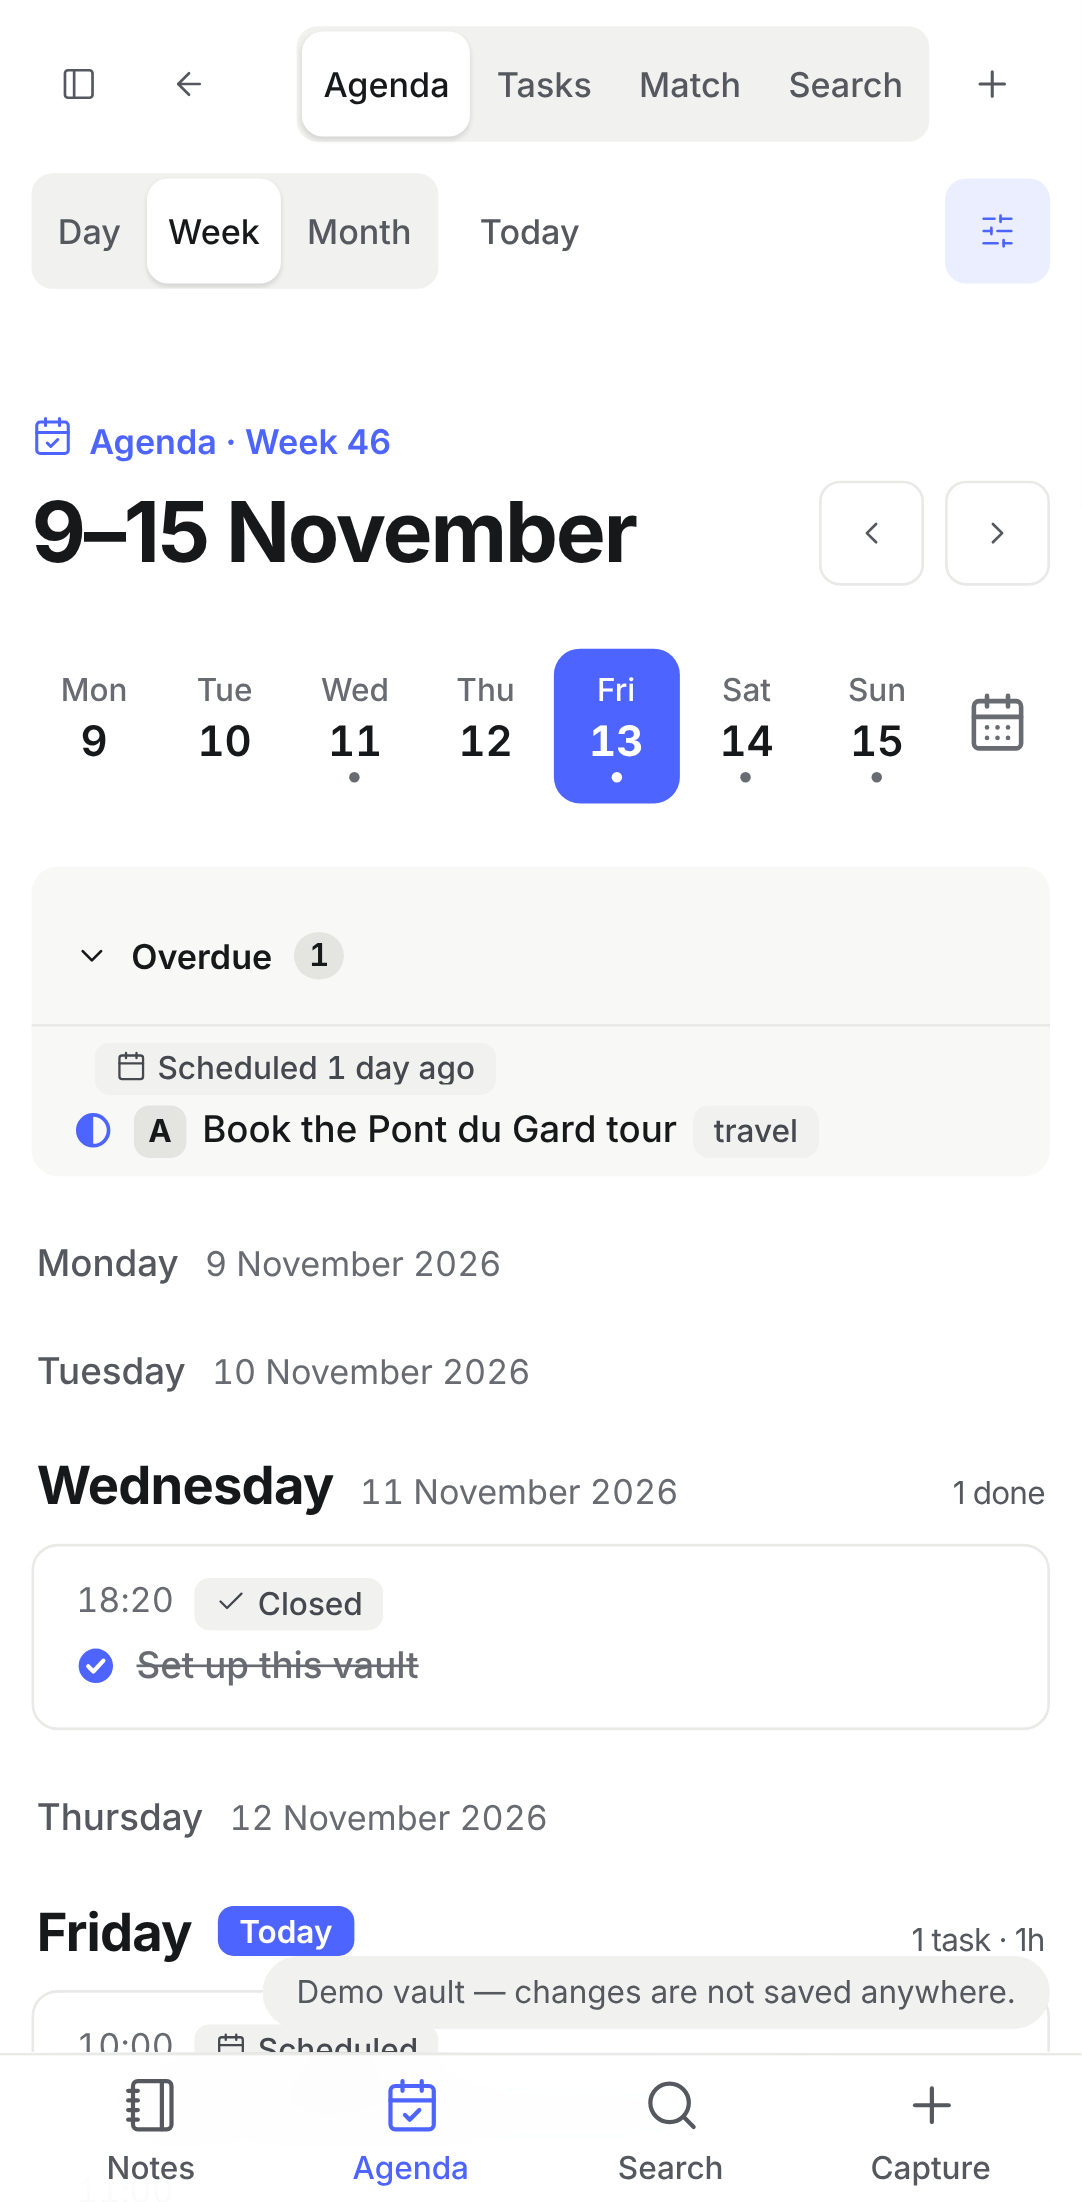
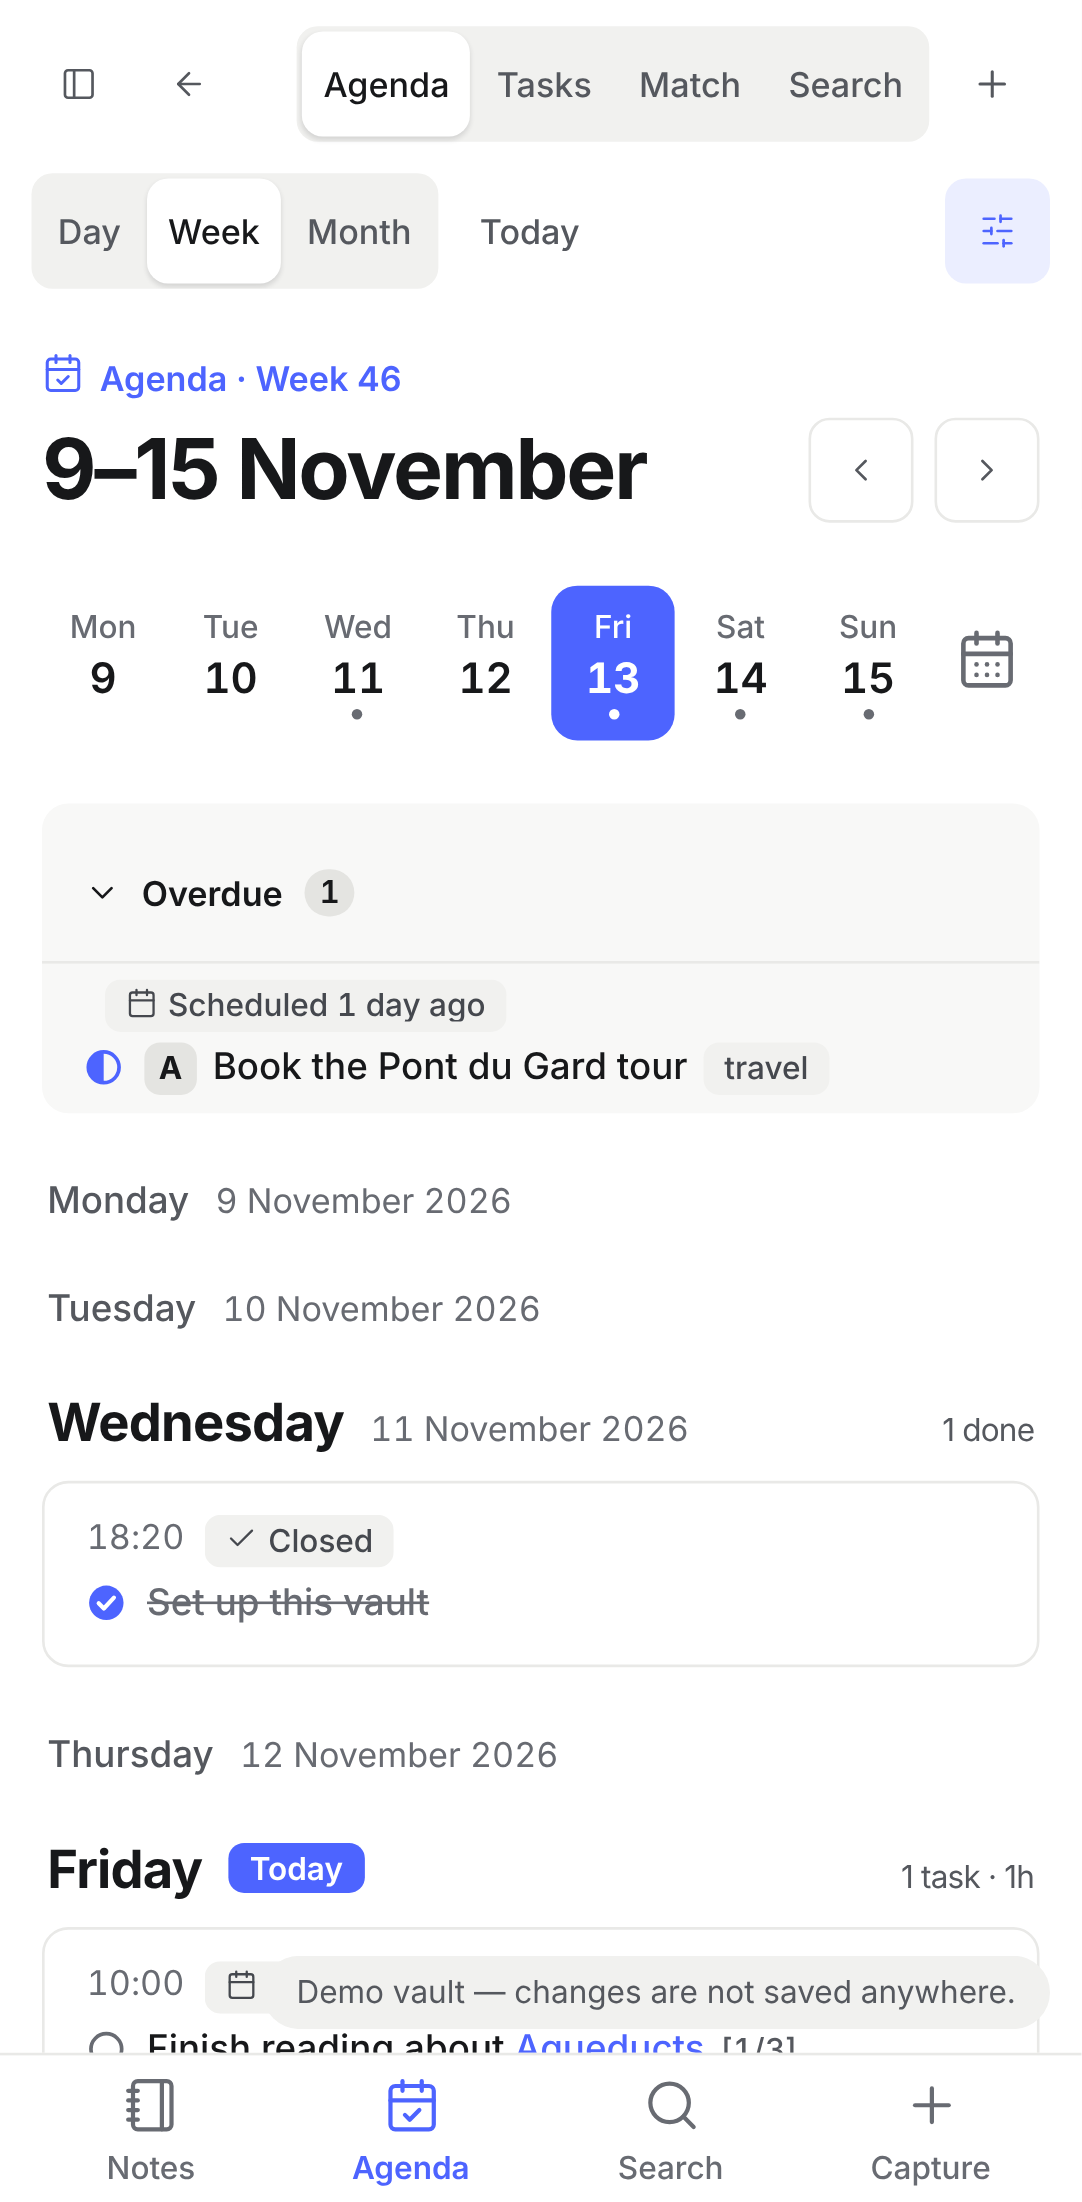
Restyle stage 8: the phone
The phone's list gets 20px sides, a 32px title, a 44px field with 16px
text, tiles with no count, and cards with 16px titles over 14px text;
its bar's buttons are 44px with 20px icons. The tab bar is solid white,
its tabs faint, the current one in the accent at 600. The agenda's page
has 16px sides. The phone's 32px list title joins the page's titles in
the six-sizes test.

Claude-Session: https://claude.ai/code/session_01FMk1W3xjGAnUwDM3D7HQLZ

diff --git a/web/src/css/app.css b/web/src/css/app.css
@@ -298,7 +298,17 @@ button.sn-row-enter:hover, .sn-row:focus-visible button.sn-row-enter { backgroun
 .sn-row-count { margin-top: calc(var(--sp-8) * -1); color: var(--muted); font-size: var(--fs-sm); font-variant-numeric: tabular-nums; }
 .sn-row-thumb { flex: none; width: 60px; height: 60px; margin-top: 19px; object-fit: cover; border-radius: var(--r-s); background: var(--panel); box-shadow: 0 0 0 1px var(--line); }
 @media (max-width: 820px) {
-  .sn-board.is-notes .sn-page { padding: var(--sp-10) var(--sp-6) var(--sp-48); }
+  /* the phone's list (restyle RS-72 to RS-76): roomy sides, a 32px title, a 44px field, tiles with no count, larger rows */
+  .sn-board.is-notes .sn-page { padding: var(--sp-8) var(--sp-20) var(--sp-48); }
+  .sn-board.is-notes .sn-topbar .clickable-icon:where(:not(.sn-seg > *)) { width: 44px; height: 44px; color: var(--muted); }
+  .sn-board.is-notes .sn-topbar .clickable-icon:where(:not(.sn-seg > *)) svg { width: 20px; height: 20px; }
+  .sn-list-head { padding-bottom: var(--sp-16); }
+  .sn-list-head .sn-list-title { font-size: var(--fs-title); letter-spacing: var(--ls-title); line-height: var(--lh-title); }
+  .sn-board.is-notes .sn-composer { margin-bottom: var(--sp-16); }
+  .sn-board.is-notes .sn-composer textarea { height: 44px; min-height: 44px; padding: var(--sp-10) var(--sp-14); font-size: var(--fs-text); line-height: 24px; }
+  .sn-row.is-folder .sn-row-count { display: none; }
+  .sn-board .sn-card.sn-row:not(.is-folder) .sn-row-title { font-size: var(--fs-text); }
+  .sn-row-snippet { font-size: var(--fs-md); }
   .sn-row-thumb { width: 52px; height: 52px; }
 }
 
@@ -317,16 +327,16 @@ button.sn-row-enter:hover, .sn-row:focus-visible button.sn-row-enter { backgroun
   .sn-tabbar {
     position: fixed; left: 0; right: 0; bottom: 0; z-index: var(--z-tabbar); display: grid; grid-template-columns: repeat(4, minmax(0, 1fr));
     padding: var(--sp-2) var(--sp-8) var(--safe-bottom); border-top: 1px solid var(--line);
-    background: color-mix(in srgb, var(--win) 94%, transparent); -webkit-backdrop-filter: blur(12px); backdrop-filter: blur(12px);
+    background: var(--win);
     transition: transform var(--dur-2) var(--ease);
   }
   .sn-tabbar.is-hidden { transform: translateY(100%); }
   button.sn-tab, button.sn-tab:not(.clickable-icon) {
     display: flex; flex-direction: column; align-items: center; justify-content: center; gap: var(--sp-2); height: 54px; padding: 0;
-    border: 0; background: none; box-shadow: none; color: var(--muted); font-family: var(--font-ui); font-size: var(--fs-sm); font-weight: var(--fw-medium);
+    border: 0; background: none; box-shadow: none; color: var(--faint); font-family: var(--font-ui); font-size: var(--fs-sm); font-weight: var(--fw-medium);
   }
   button.sn-tab svg { width: 22px; height: 22px; }
-  #app:not(:has(.sn-board.is-tasks, .sn-board.is-files)) .sn-tab[data-tab="board"], #app:has(.sn-board.is-tasks) .sn-tab[data-tab="agenda"] { color: var(--accent); }
+  #app:not(:has(.sn-board.is-tasks, .sn-board.is-files)) .sn-tab[data-tab="board"], #app:has(.sn-board.is-tasks) .sn-tab[data-tab="agenda"] { color: var(--accent); font-weight: var(--fw-semibold); }
   /* room to scroll the last card, task or file out from under the bar */
   .sn-page, .ag-body, .fv-list { padding-bottom: calc(80px + var(--safe-bottom)); }
   .sn-toast.is-quiet { bottom: calc(66px + var(--safe-bottom)); }

diff --git a/web/src/css/agenda.css b/web/src/css/agenda.css
@@ -120,7 +120,7 @@ button.ag-over-head, button.ag-over-head:not(.clickable-icon) { gap: var(--sp-8)
 .ag-keys { margin-top: var(--sp-6); }
 .ag-flag { color: var(--muted); }
 @media (max-width: 820px) {
-  .ag-body { padding-inline: var(--sp-12); }
+  .ag-body { padding: var(--sp-16) var(--sp-16) var(--sp-48); } /* restyle RS-78 */
   .agbar { padding-inline: var(--sp-12); }
   .ag-row, .ag-body.one-cat .ag-row { grid-template-columns: minmax(0, 1fr); grid-template-areas: none; row-gap: 1px; padding-block: var(--sp-6); }
   .ag-row .ag-main { grid-area: auto; }

diff --git a/docs/restyle-specification.md b/docs/restyle-specification.md
@@ -265,13 +265,13 @@
 
 | № | Требование | Проверка | Статус |
 |---|---|---|---|
-| RS-72 | Верхняя полоса списка: слева кнопка боковой панели, справа поиск и фильтры; кнопки 44 × 44 px, значок 20 px, `--muted`. Фона и линии у полосы нет. | Замер; `tests/phone.test.mjs`. | |
-| RS-73 | Шапка списка: подпись вида, заголовок `--fs-title` (32 px), счётчик — как в RS-20 – RS-22. Поля страницы 20 px по бокам, между блоками 16 px. | Замер размера заголовка. | |
-| RS-74 | Поле новой заметки 44 px высотой, текст 16 px. | Замер. | |
-| RS-75 | Плитки блокнотов — три в ряд, как на компьютере, без строки с числом заметок. | Замер. | |
-| RS-76 | Строки заметок — карточки по RS-29 – RS-33; название 16 px (`--fs-text`), фрагмент 14 px. | Замер. | |
-| RS-77 | Нижняя полоса (`.sn-tabbar`): фон `--win`, линия `--line` сверху; вкладка — значок 22 px и подпись 12 px 500, `--faint`; текущая — `--accent`, 600. Высота и поведение прежние. | Замер; A11Y-3. | |
-| RS-78 | Заметка на телефоне: поля 16 px, название 32 px, блок свойств с колонкой ключей 96 px. Повестка: поля 16 px, заголовок 32 px, полоса недели по RS-60. | Снимки `phone-editor.png` и повестки. | |
+| RS-72 | Верхняя полоса списка: слева кнопка боковой панели, справа поиск и фильтры; кнопки 44 × 44 px, значок 20 px, `--muted`. Фона и линии у полосы нет. Сделано для полосы списка: 44 px и значки 20 px. В повестке кнопки полосы остаются 40 px: с 44 px переключатель видов уходил на третий ряд (UI-12). | Замер; `tests/phone.test.mjs`. | ✅ |
+| RS-73 | Шапка списка: подпись вида, заголовок `--fs-title` (32 px), счётчик — как в RS-20 – RS-22. Поля страницы 20 px по бокам, между блоками 16 px. Сделано: поля 8 px сверху (полоса над ними), 20 px по бокам. В `tests/typography.test.mjs` 32 px заголовка списка на телефоне исключены из шести размеров (RS-79). | Замер размера заголовка. | ✅ |
+| RS-74 | Поле новой заметки 44 px высотой, текст 16 px. Сделано. | Замер. | ✅ |
+| RS-75 | Плитки блокнотов — три в ряд, как на компьютере, без строки с числом заметок. Сделано. | Замер. | ✅ |
+| RS-76 | Строки заметок — карточки по RS-29 – RS-33; название 16 px (`--fs-text`), фрагмент 14 px. Сделано. | Замер. | ✅ |
+| RS-77 | Нижняя полоса (`.sn-tabbar`): фон `--win`, линия `--line` сверху; вкладка — значок 22 px и подпись 12 px 500, `--faint`; текущая — `--accent`, 600. Высота и поведение прежние. Сделано: фон `--win` без полупрозрачности и размытия, неактивные вкладки `--faint`, текущая — акцент 600. | Замер; A11Y-3. | ✅ |
+| RS-78 | Заметка на телефоне: поля 16 px, название 32 px, блок свойств с колонкой ключей 96 px. Повестка: поля 16 px, заголовок 32 px, полоса недели по RS-60. Сделано: заметка — на этапе 6; повестка — поля 16 px (`agenda.css`), заголовок 32 px, полоса недели — на этапе 7. Новые снимки: `phone-agenda.png`. | Снимки `phone-editor.png` и повестки. | ✅ |
 
 ## 11. Строки интерфейса
 
